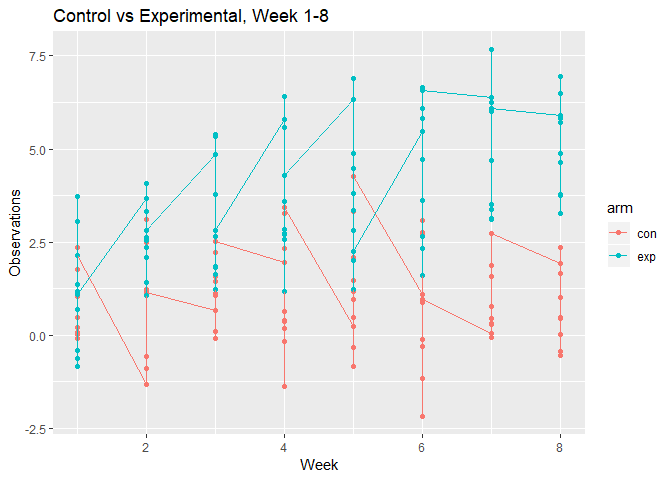
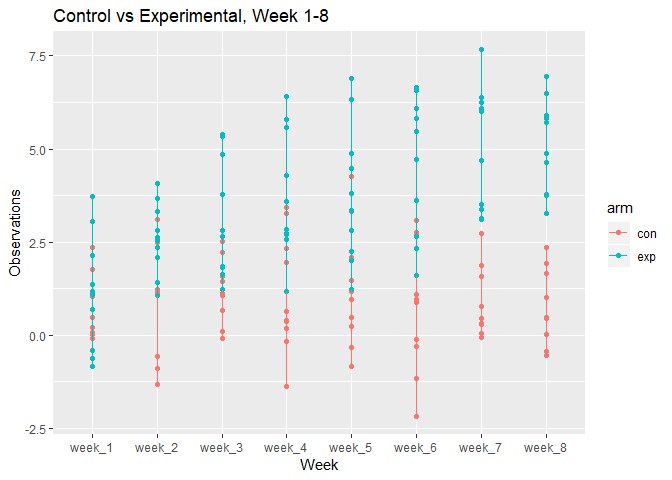
plotting... slowly

diff --git a/markdown.md b/markdown.md
@@ -290,10 +290,29 @@ data = bind_rows(data, .id = NULL)
 complete = bind_cols(conexp, data) %>%
   separate(ID, into = c("arm", "ID"), sep = "_") %>%
   clean_names() %>%
-  gather(key = week, value = obs, week_1:week_8) %>%
-  mutate(week = str_replace(week, "week_", "")) %>%
-  mutate(week = as.numeric(week))
-ggplot(data = complete, aes(x = week, y = obs, color = arm)) + geom_point() + geom_line() + labs(title = "Control vs Experimental, Week 1-8", x = "Week", y = "Observations")
+  gather(key = week, value = obs, week_1:week_8) 
+##  mutate(week = str_replace(week, "week_", "")) %>%
+##  mutate(week = as.numeric(week))
+complete
+```
+
+    ## # A tibble: 160 x 4
+    ##    arm   id    week     obs
+    ##    <chr> <chr> <chr>  <dbl>
+    ##  1 con   01    week_1  0.2 
+    ##  2 con   02    week_1  1.13
+    ##  3 con   03    week_1  1.77
+    ##  4 con   04    week_1  1.04
+    ##  5 con   05    week_1  0.47
+    ##  6 con   06    week_1  2.37
+    ##  7 con   07    week_1  0.03
+    ##  8 con   08    week_1 -0.08
+    ##  9 con   09    week_1  0.08
+    ## 10 con   10    week_1  2.14
+    ## # ... with 150 more rows
+
+``` r
+ggplot(data = complete, aes(x = week, y = obs, color = arm, ID)) + geom_point() + geom_line() + labs(title = "Control vs Experimental, Week 1-8", x = "Week", y = "Observations")
 ```
 
 ![](markdown_files/figure-markdown_github/setup-1.png)
